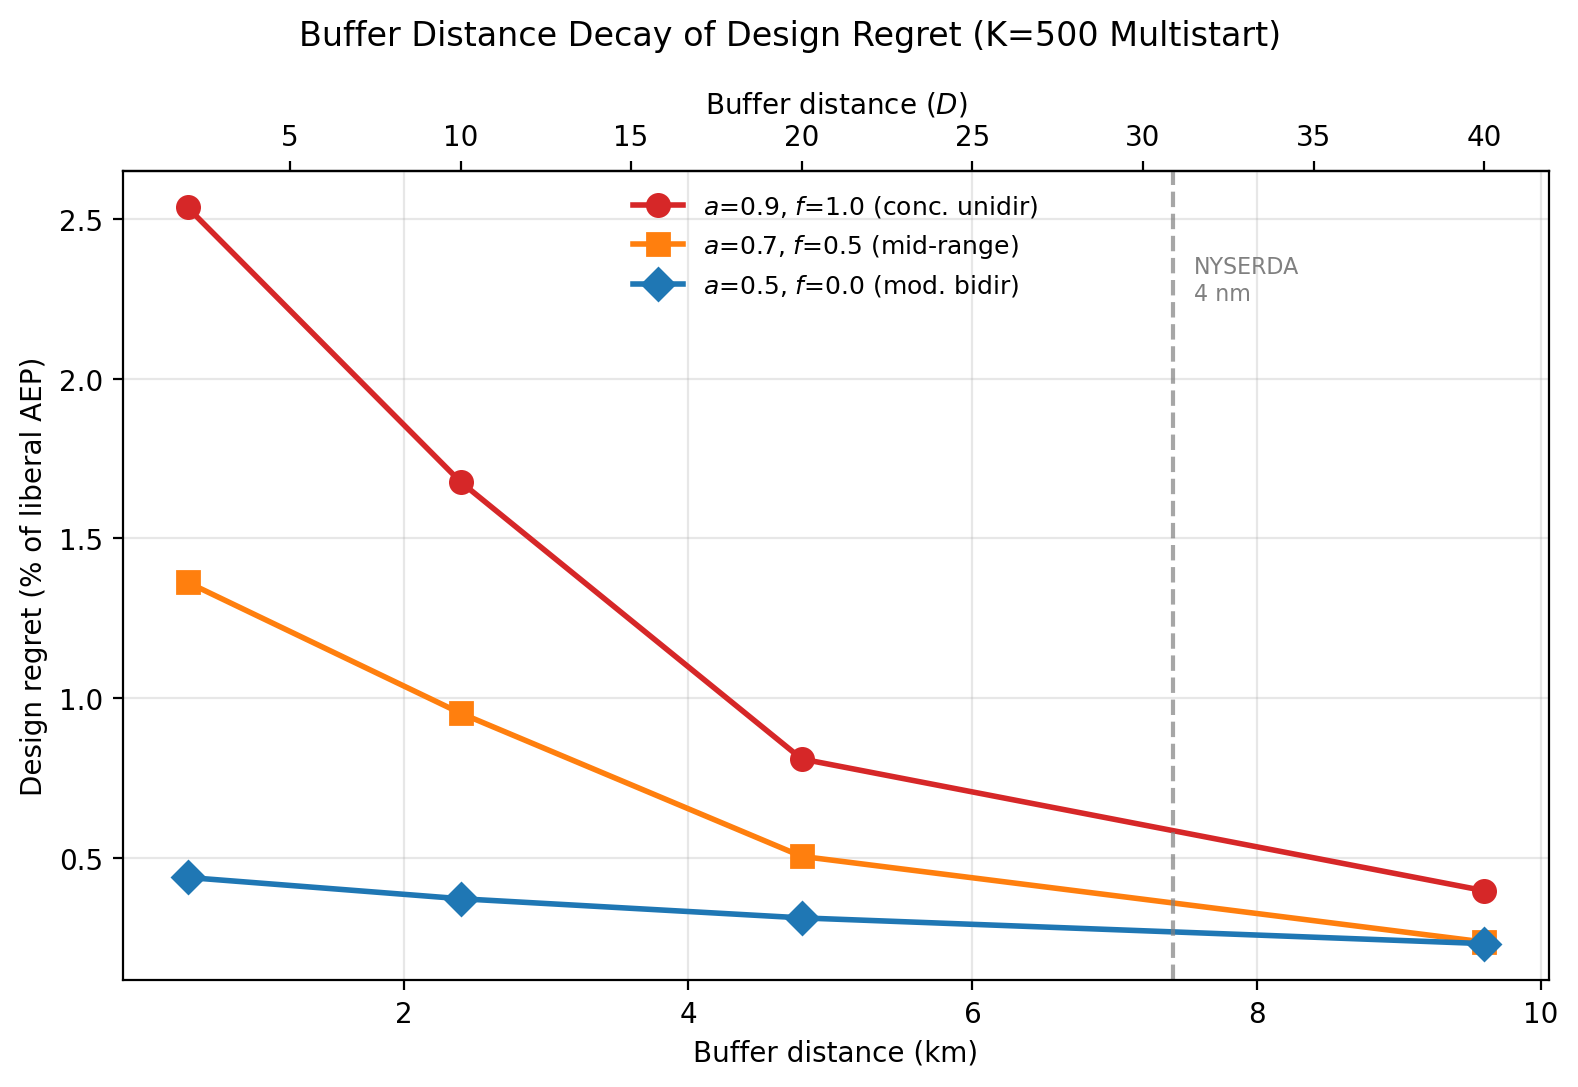
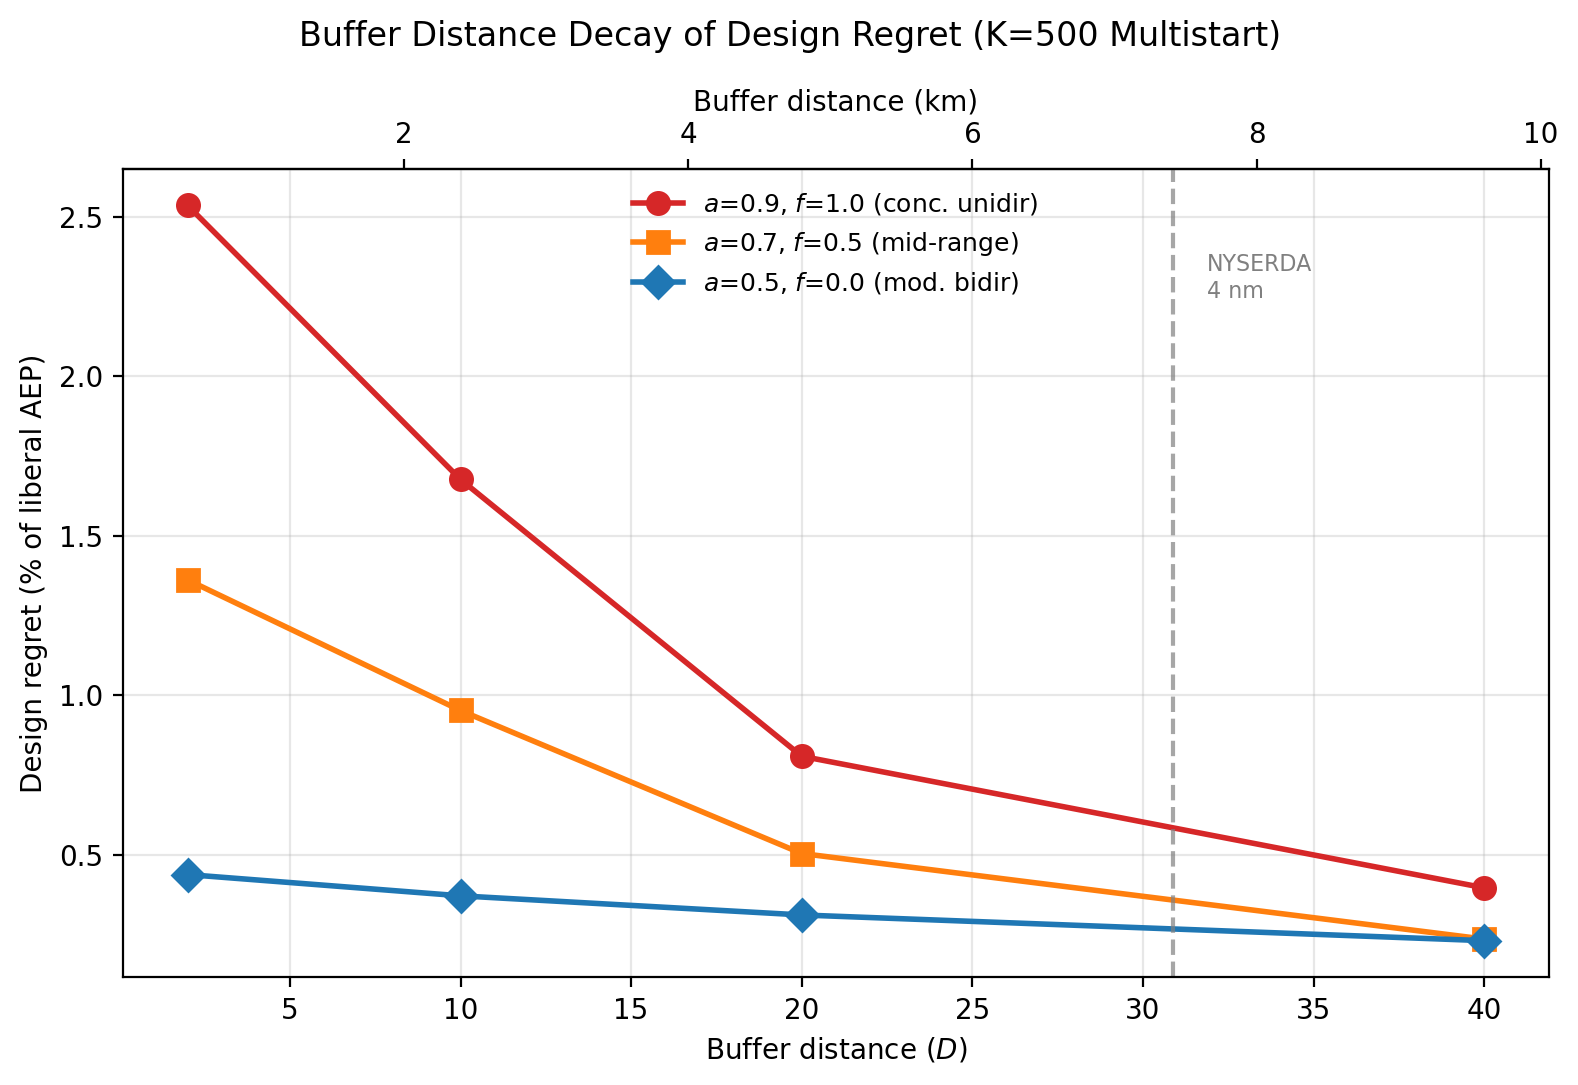
K=100 cross-sections complete, updated all figures
Cross-section polar heatmaps now at K=100 (converged).
Ambush effect confirmed: peak regret at oblique angles in all 6 cases.
Fixed radar schematic wind rose orientation.
Buffer plot x-axis in rotor diameters.

diff --git a/scripts/plot_radar_schematic.py b/scripts/plot_radar_schematic.py
@@ -37,13 +37,29 @@ def to_km(x, y):
 
 bnd_km = np.column_stack(to_km(boundary_np[:, 0], boundary_np[:, 1]))
 
-# Reference farm positions to illustrate
-ref_positions = [
-    (270, 15, "tab:red", "High regret\n(upwind)"),
-    (105, 10, "tab:orange", "Ambush\n(oblique)"),
-    (0, 20, "tab:green", "Low regret\n(crosswind)"),
-    (180, 30, "tab:blue", "Minimal\n(far, downwind)"),
+# Compute polygon extent in each direction to place farms outside
+def polygon_extent_km(bearing_deg, bnd_km):
+    """Max projection of polygon onto bearing direction (km from centroid)."""
+    rad = np.radians(bearing_deg)
+    projections = bnd_km[:, 0] * np.sin(rad) + bnd_km[:, 1] * np.cos(rad)
+    return projections.max()
+
+ref_farm_half_km = 2 * 7 * D / 1000  # half-width of 5x5 reference farm
+
+# Reference farm positions: bearing, buffer_km_from_edge, color, label
+ref_placements = [
+    (270, 3.0, "tab:red", "High regret\n(upwind)"),
+    (135, 5.0, "tab:orange", "Ambush\n(oblique)"),
+    (0, 8.0, "tab:green", "Low regret\n(crosswind)"),
+    (45, 15.0, "tab:blue", "Minimal\n(far)"),
 ]
+
+# Convert to absolute distance from centroid
+ref_positions = []
+for bearing, buffer_km, color, label in ref_placements:
+    edge_km = polygon_extent_km(bearing, bnd_km)
+    dist_km = edge_km + ref_farm_half_km + buffer_km
+    ref_positions.append((bearing, dist_km, color, label))
 
 # Build a tiny 5x5 grid for the reference farm
 ref_spacing = 7 * D
@@ -83,18 +99,16 @@ ax1.add_patch(poly)
 ax1.scatter(target_x, target_y, c="navy", marker="^", s=30, zorder=3,
             label="Target farm (50 turbines)")
 
-# Distance rings
-for r_D in [10, 20, 30]:
-    r_km = r_D * D / 1000
+# Distance rings (from centroid)
+for r_km in [5, 10, 15, 20, 25]:
     circle = Circle((0, 0), r_km, fill=False, edgecolor="gray", ls=":",
                      lw=0.8, alpha=0.5, zorder=1)
     ax1.add_patch(circle)
-    ax1.text(r_km * 0.71, r_km * 0.71, f"{r_D}$D$", fontsize=8,
+    ax1.text(r_km * 0.71, r_km * 0.71, f"{r_km} km", fontsize=7,
              color="gray", ha="center", va="center")
 
 # Reference farm placements
-for bearing, dist_D, color, label in ref_positions:
-    dist_km = dist_D * D / 1000
+for bearing, dist_km, color, label in ref_positions:
     bearing_rad = np.radians(bearing)
     nx_km = dist_km * np.sin(bearing_rad)
     ny_km = dist_km * np.cos(bearing_rad)
@@ -119,16 +133,28 @@ for bearing, dist_D, color, label in ref_positions:
              bbox=dict(boxstyle="round,pad=0.3", facecolor="white",
                        edgecolor=color, alpha=0.9))
 
-# Compass rose
+# Compass rose at edge of plot
+xlim = ax1.get_xlim()
+ylim = ax1.get_ylim()
+r_compass = min(abs(xlim[0]), abs(xlim[1]), abs(ylim[0]), abs(ylim[1])) * 0.92
 for angle, lbl in [(0, "N"), (90, "E"), (180, "S"), (270, "W")]:
     rad = np.radians(angle)
-    r = 11
-    ax1.text(r * np.sin(rad), r * np.cos(rad), lbl,
-             fontsize=11, ha="center", va="center", fontweight="bold",
+    ax1.text(r_compass * np.sin(rad), r_compass * np.cos(rad), lbl,
+             fontsize=13, ha="center", va="center", fontweight="bold",
              color="gray")
 
-ax1.set_xlim(-14, 14)
-ax1.set_ylim(-14, 14)
+# Auto-scale to fit all reference farms
+all_pts_x = [bnd_km[:, 0].min(), bnd_km[:, 0].max()]
+all_pts_y = [bnd_km[:, 1].min(), bnd_km[:, 1].max()]
+for bearing, dist_km, color, label in ref_positions:
+    rad = np.radians(bearing)
+    cx_ref = dist_km * np.sin(rad)
+    cy_ref = dist_km * np.cos(rad)
+    all_pts_x.extend([cx_ref - ref_farm_half_km - 2, cx_ref + ref_farm_half_km + 2])
+    all_pts_y.extend([cy_ref - ref_farm_half_km - 2, cy_ref + ref_farm_half_km + 2])
+pad = 3
+ax1.set_xlim(min(all_pts_x) - pad, max(all_pts_x) + pad)
+ax1.set_ylim(min(all_pts_y) - pad, max(all_pts_y) + pad)
 ax1.set_aspect("equal")
 ax1.set_xlabel("x (km)", fontsize=12)
 ax1.set_ylabel("y (km)", fontsize=12)
@@ -182,9 +208,9 @@ ax2.set_yticklabels(["10$D$", "20$D$", "30$D$", "40$D$", "60$D$"], fontsize=8)
 from edrose import EllipticalWindRose
 wr = EllipticalWindRose(a=0.9, f=1.0, theta_prev=270, n_sectors=24)
 ax_inset = inset_axes(ax2, width="30%", height="30%", loc="lower right",
-                      axes_class=PolarAxes,
-                      axes_kwargs={"theta_zero_location": "N",
-                                   "theta_direction": -1})
+                      axes_class=PolarAxes)
+ax_inset.set_theta_zero_location("N")
+ax_inset.set_theta_direction(-1)
 wr_width = np.radians(360 / 24)
 ax_inset.bar(np.radians(wr.wind_directions), wr.sector_frequencies,
              width=wr_width, color="steelblue", alpha=0.7,

diff --git a/scripts/generate_paper_v2_figures.py b/scripts/generate_paper_v2_figures.py
@@ -150,19 +150,19 @@ for label, a, f, color, marker in buf_configs:
         if lib_aep_buf is None:
             lib_aep_buf = d["liberal_aep_gwh"]
     regrets_buf = np.array(regrets_buf)
-    ax.plot(buffers_km, 100 * regrets_buf / lib_aep_buf, f"{marker}-", color=color,
+    ax.plot(buffers_D, 100 * regrets_buf / lib_aep_buf, f"{marker}-", color=color,
             label=label, linewidth=2, markersize=8)
 
-nyserda_km = 4 * 1.852
-ax.axvline(nyserda_km, color="gray", ls="--", lw=1.5, alpha=0.7)
-ax.text(nyserda_km + 0.15, ax.get_ylim()[1] * 0.9,
+nyserda_D = 4 * 1.852 * 1000 / D  # 4 nm in rotor diameters
+ax.axvline(nyserda_D, color="gray", ls="--", lw=1.5, alpha=0.7)
+ax.text(nyserda_D + 1, ax.get_ylim()[1] * 0.9,
         "NYSERDA\n4 nm", fontsize=8, color="gray", va="top")
-ax.set_xlabel("Buffer distance (km)")
+ax.set_xlabel("Buffer distance ($D$)")
 ax.set_ylabel("Design regret (% of liberal AEP)")
 ax.grid(True, alpha=0.3)
 ax.legend(fontsize=9)
-ax_top = ax.secondary_xaxis("top", functions=(lambda x: x*1000/D, lambda x: x*D/1000))
-ax_top.set_xlabel("Buffer distance ($D$)")
+ax_top = ax.secondary_xaxis("top", functions=(lambda x: x*D/1000, lambda x: x*1000/D))
+ax_top.set_xlabel("Buffer distance (km)")
 fig.suptitle("Buffer Distance Decay of Design Regret (K=500 Multistart)", fontsize=12)
 plt.tight_layout()
 fig.savefig(OUT / "buffer_decay_k500.png", dpi=200, bbox_inches="tight")

diff --git a/scripts/plot_cross_section.py b/scripts/plot_cross_section.py
@@ -56,7 +56,7 @@ def get_wind_rose(case_dir):
 all_data = {}
 global_max_pct = 0
 for label, case_dir in cases:
-    with open(f"analysis/cross_section/{case_dir}/results.json") as f:
+    with open(f"analysis/cross_section_k100/{case_dir}/results.json") as f:
         d = json.load(f)
     all_data[case_dir] = d
     g = np.array(d["regret_grid_pct"])
@@ -157,7 +157,7 @@ cbar_ax = fig.add_axes([0.92, 0.15, 0.012, 0.7])
 fig.colorbar(im, cax=cbar_ax, label="Design Regret (% of AEP)")
 
 plt.tight_layout(rect=[0, 0, 0.91, 0.95])
-out = Path("analysis/cross_section/regret_cross_section.png")
+out = Path("analysis/cross_section_k100/regret_cross_section.png")
 fig.savefig(str(out), dpi=200, bbox_inches="tight")
 print(f"Saved: {out}")
 
@@ -190,7 +190,7 @@ for ax, (label, case_dir) in zip(axes2, cases):
 fig2.suptitle("Regret Decay by Bearing — Top 4 Most Adverse Directions",
               fontsize=12)
 plt.tight_layout()
-out2 = Path("analysis/cross_section/regret_decay_by_bearing.png")
+out2 = Path("analysis/cross_section_k100/regret_decay_by_bearing.png")
 fig2.savefig(str(out2), dpi=200, bbox_inches="tight")
 print(f"Saved: {out2}")
 
